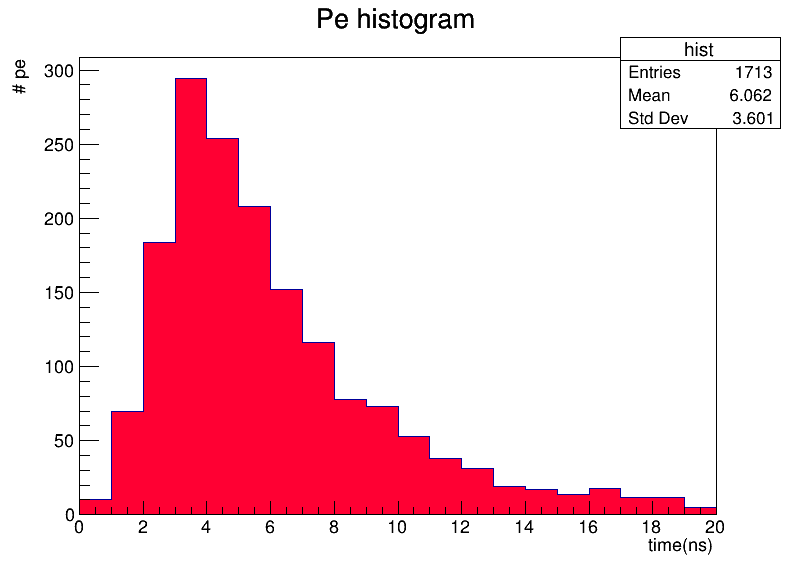
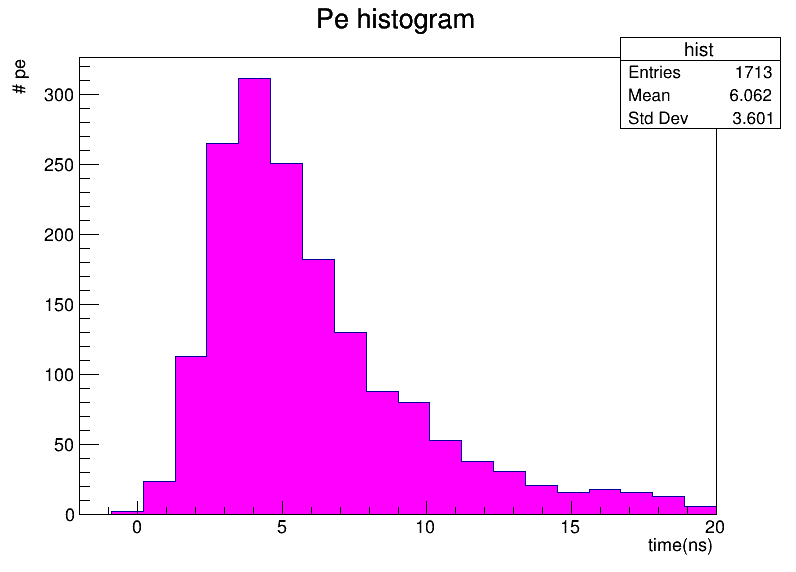
new commit

diff --git a/time_nosmooth.C b/time_nosmooth.C
@@ -41,7 +41,7 @@ void processFile(const std::string& filename, std::vector<double>& N) {
     TCanvas *canvas = new TCanvas("c2", "Pe histogram", 800, 600);
     
     // Crea un istogramma
-    TH1F *hist = new TH1F("hist", "Pe histogram", 20, 0, 20);
+    TH1F *hist = new TH1F("hist", "Pe histogram", 20, -2, 20);
     
     // Riempie l'istogramma con i dati
     for(double value :times) {
@@ -54,7 +54,7 @@ void processFile(const std::string& filename, std::vector<double>& N) {
     hist->GetYaxis()->SetTitle("# pe");
 
     // Imposta il colore di riempimento a rosa e lo stile di riempimento
-    hist->SetFillColor(kPink);
+    hist->SetFillColor(6);
     hist->SetFillStyle(1001); // Stile pieno
 
       
@@ -66,7 +66,7 @@ void processFile(const std::string& filename, std::vector<double>& N) {
       delete canvas;
     }
 int main() {
-  std::vector<std::string> filenames = { "T_smear_1.txt", "T_smear_14.txt", "T_smear_15.txt","T_smear_16.txt"
+  std::vector<std::string> filenames = {"T_smear_14.txt", "T_smear_15.txt","T_smear_16.txt"
 };
   
   std::vector<double> N;
